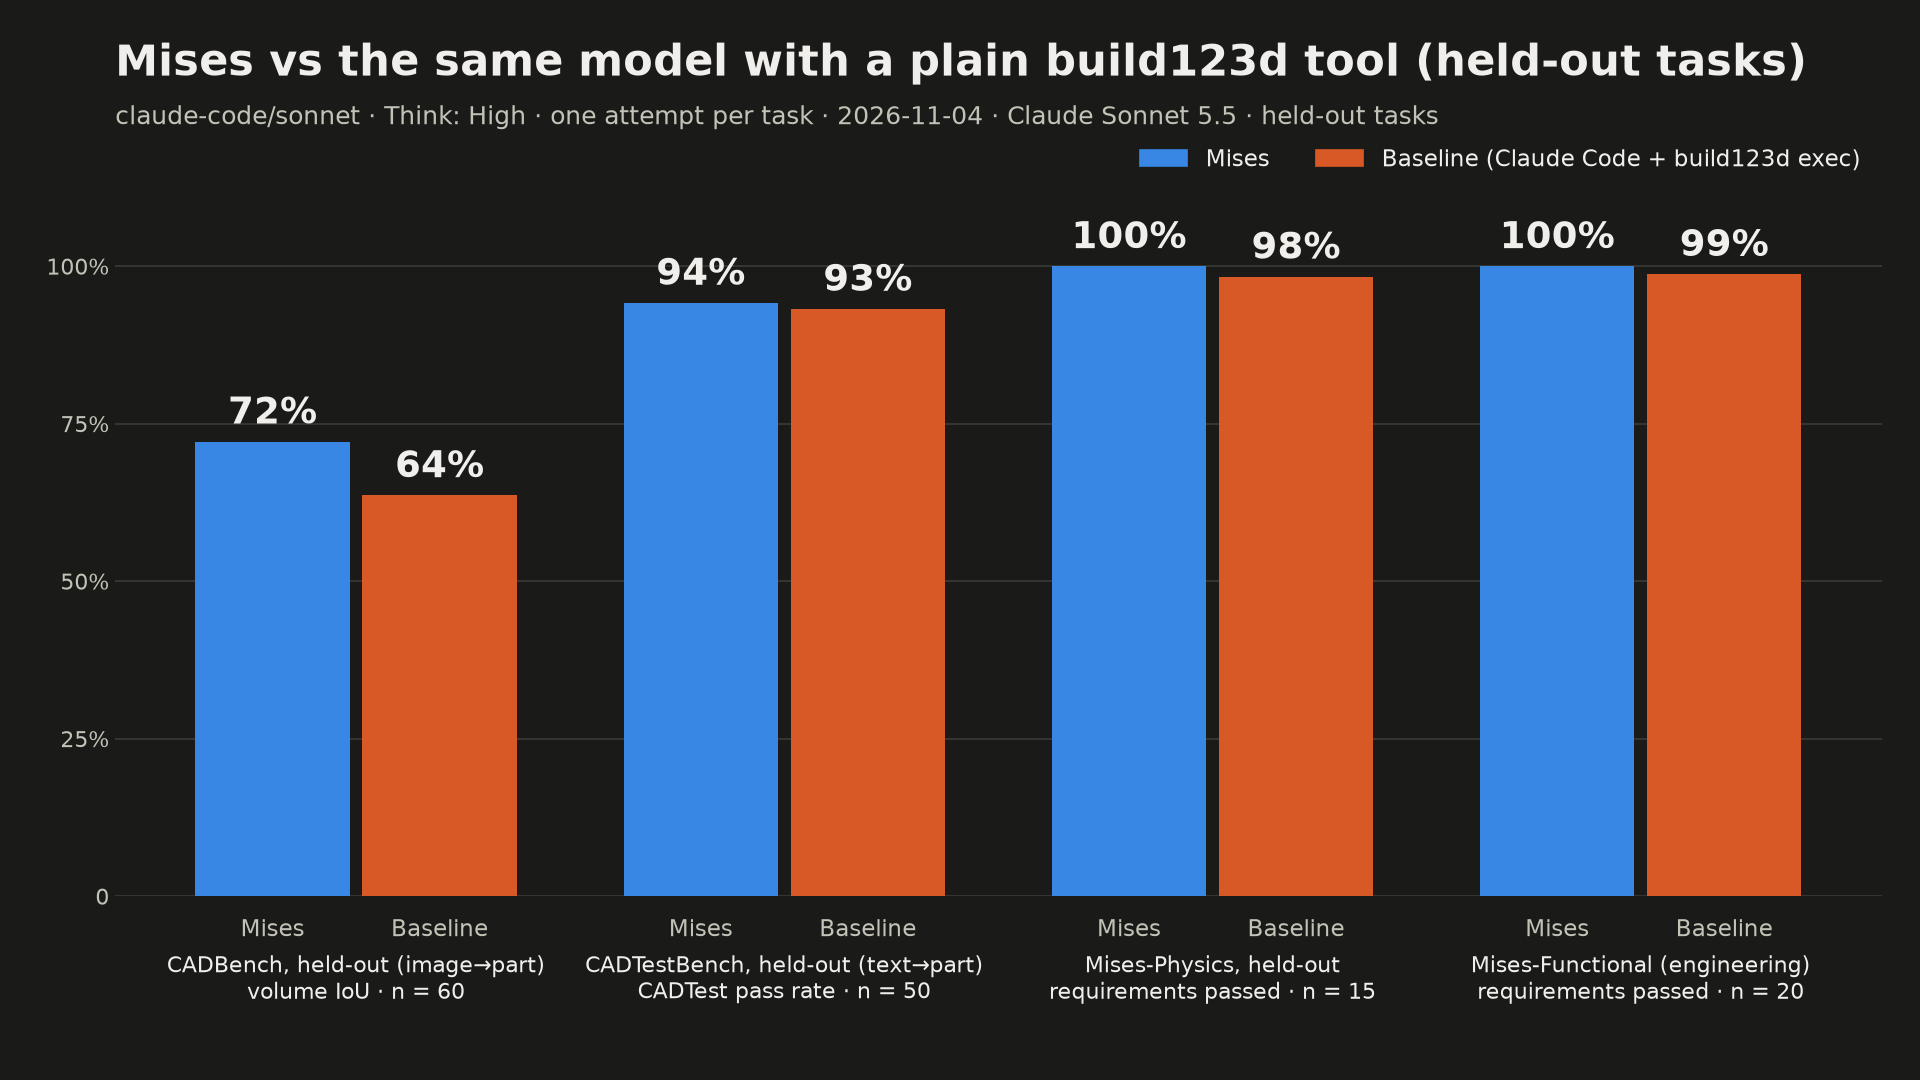
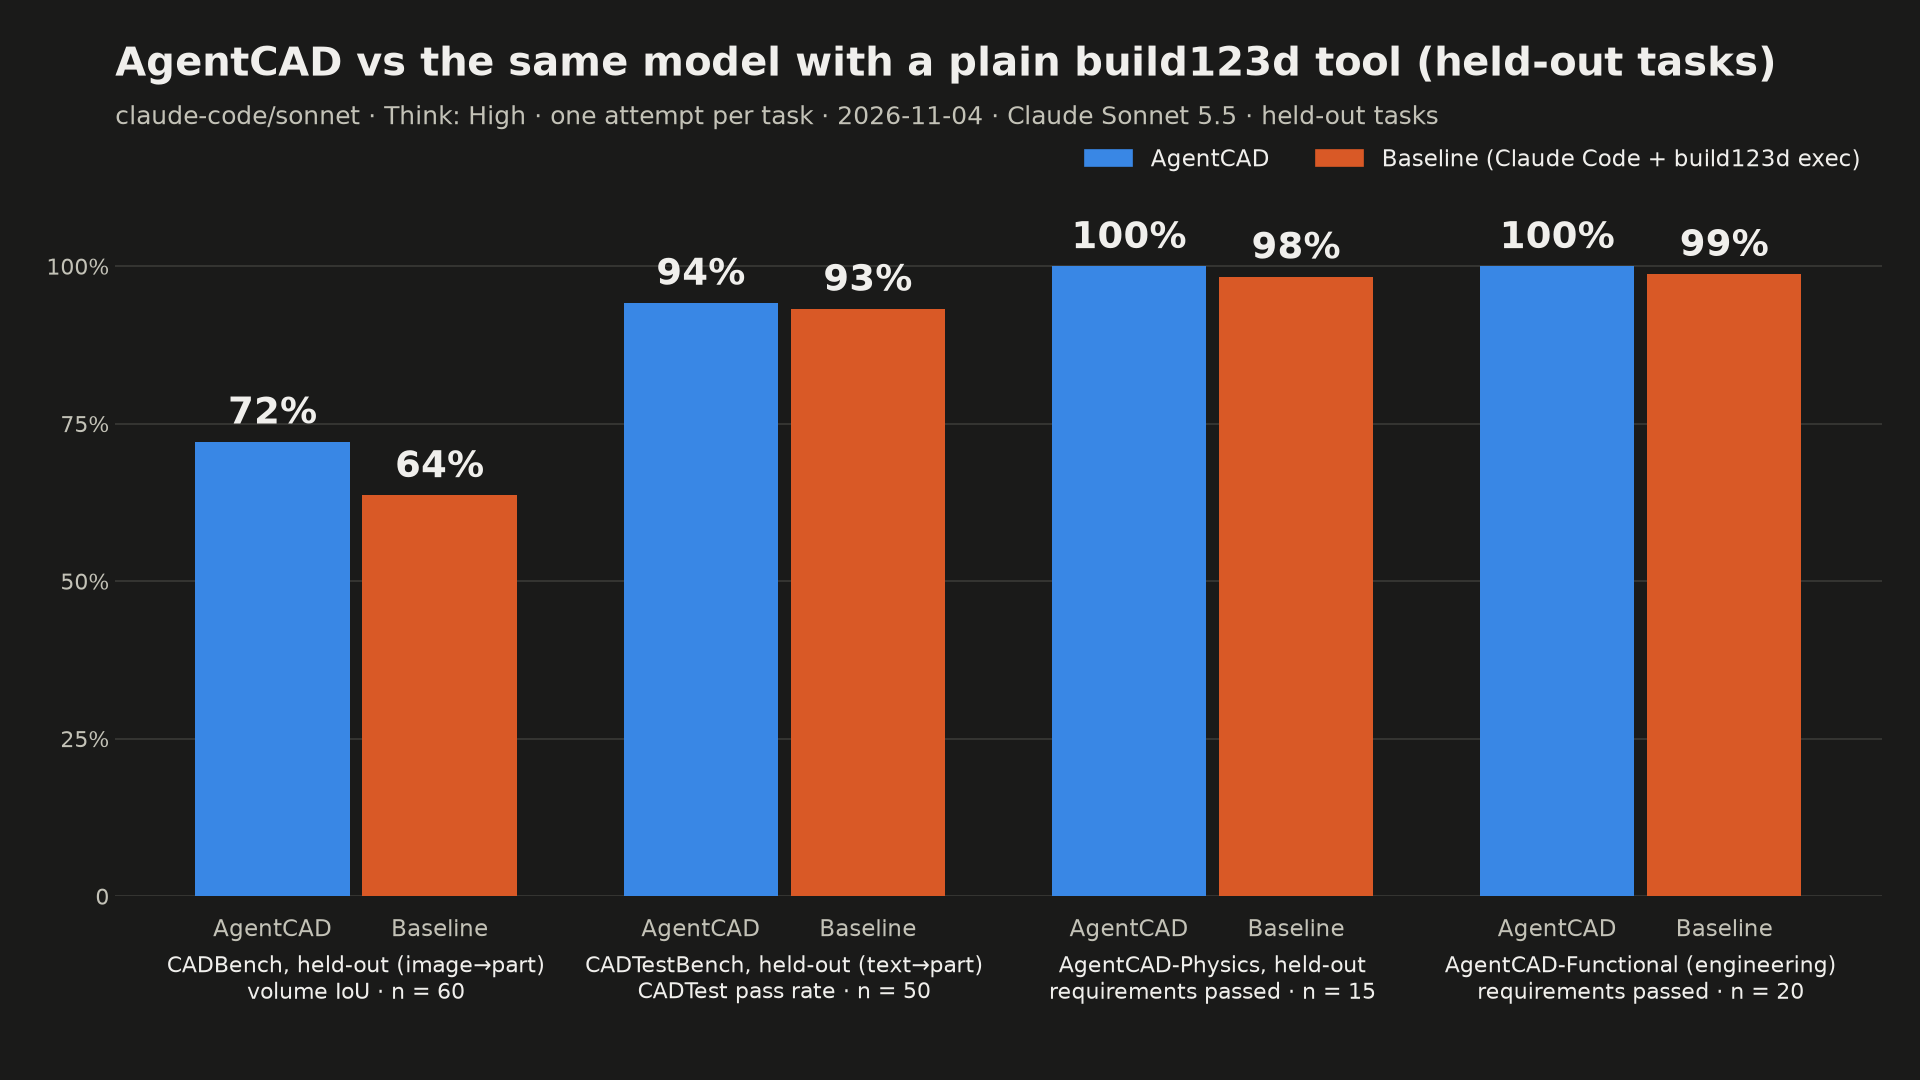
rename: READMEs, benchmark report and suite names say AgentCAD
Suites become AgentCAD-Functional / AgentCAD-Physics. The chart is redrawn from the stored summary
with no new runs; the data key and CLI system id `mises` stay.

Claude-Session: https://claude.ai/code/session_01MCwbmMC4uxgXN6UvsBhXQX

diff --git a/mockups/terminal-core-loop.html b/mockups/terminal-core-loop.html
@@ -2,7 +2,7 @@
 <html>
 <head>
 <meta charset="utf-8">
-<title>Mises · terminal edition</title>
+<title>AgentCAD · terminal edition</title>
 <link href="https://fonts.googleapis.com/css2?family=IBM+Plex+Mono:wght@400;500;600&family=IBM+Plex+Sans+Condensed:wght@400;500;600&display=swap" rel="stylesheet">
 <style>
 :root{
@@ -156,7 +156,7 @@ h1{font:600 20px "IBM Plex Sans Condensed",sans-serif;letter-spacing:.04em;margi
 </style>
 </head>
 <body>
-<h1>Mises · core loop · terminal edition</h1>
+<h1>AgentCAD · core loop · terminal edition</h1>
 <p class="sub">Same layout, with Bloomberg Terminal ideas layered in: a <b>command line</b> with short function codes, <b>numbered panels</b> you jump to with 1–9, dense right-aligned tables with <b>change columns</b> (previous value, delta, 7-day filament price), a version history with a safety-factor trend line, a scrolling <b>event feed</b>, and a <b>function-key strip</b>.</p>
 
 <svg width="0" height="0" style="position:absolute">

diff --git a/core/evals/bench/report.py b/core/evals/bench/report.py
@@ -17,10 +17,10 @@ from .common import read_json, write_json
 
 SYSTEMS = ("mises", "baseline")
 SUITE_TITLES = {"cadbench": "CADBench (image→part)", "cadtestbench": "CADTestBench (text→part)",
-                "functional": "Mises-Functional (engineering)",
+                "functional": "AgentCAD-Functional (engineering)",
                 "cadbench_test": "CADBench, held-out (image→part)",
                 "cadtestbench_test": "CADTestBench, held-out (text→part)",
-                "physics_dev": "Mises-Physics, dev", "physics_test": "Mises-Physics, held-out"}
+                "physics_dev": "AgentCAD-Physics, dev", "physics_test": "AgentCAD-Physics, held-out"}
 METRIC = {"cadbench": "volume IoU", "cadtestbench": "CADTest pass rate",
           "functional": "requirements passed", "physics": "requirements passed"}
 
@@ -167,7 +167,7 @@ def chart(summary: dict, path: Path, model: str, date: str, label: str = "",
             ax.bar(x, v, w, color=col[sysname], zorder=3, linewidth=0)
             ax.text(x, v + 0.015, f"{100 * v:.0f}%", ha="center", va="bottom", color=ink,
                     fontsize=22, fontweight="bold")
-            ax.text(x, -0.035, "Mises" if sysname == "mises" else "Baseline", ha="center",
+            ax.text(x, -0.035, "AgentCAD" if sysname == "mises" else "Baseline", ha="center",
                     va="top", color=muted, fontsize=14)
     ax.set_xticks(range(len(suites)))
     ax.set_xticklabels([f"{SUITE_TITLES[s]}\n{METRIC[family(s)]} · n = {summary[s]['n']}"
@@ -180,12 +180,12 @@ def chart(summary: dict, path: Path, model: str, date: str, label: str = "",
     ax.grid(axis="y", color=grid, linewidth=1, zorder=0)
     for sp in ax.spines.values():
         sp.set_visible(False)
-    fig.text(0.06, 0.93, title or "Mises vs the same model with a plain build123d tool", color=ink,
-             fontsize=26, fontweight="bold")
+    fig.text(0.06, 0.93, title or "AgentCAD vs the same model with a plain build123d tool", color=ink,
+             fontsize=24, fontweight="bold")
     fig.text(0.06, 0.885, f"{model} · Think: High · one attempt per task · {date}"
              + (f" · {label}" if label else ""), color=muted, fontsize=15)
     handles = [plt.Rectangle((0, 0), 1, 1, color=col[s]) for s in SYSTEMS]
-    ax.legend(handles, ["Mises", "Baseline (Claude Code + build123d exec)"], loc="upper right",
+    ax.legend(handles, ["AgentCAD", "Baseline (Claude Code + build123d exec)"], loc="upper right",
               frameon=False, labelcolor=ink, fontsize=14, bbox_to_anchor=(1.0, 1.13), ncol=2)
     fig.subplots_adjust(left=0.06, right=0.98, top=0.8, bottom=0.17)
     fig.savefig(path, facecolor=bg)
@@ -204,7 +204,7 @@ HELD_OUT = ["cadbench_test", "cadtestbench_test", "physics_test", "functional"]
 
 
 def tables(summary: dict) -> list[str]:
-    lines = ["| Suite | n | Metric | Mises | Baseline | Mises − baseline (95% CI) | Mises better / worse / tie |",
+    lines = ["| Suite | n | Metric | AgentCAD | Baseline | AgentCAD − baseline (95% CI) | AgentCAD better / worse / tie |",
              "|---|---|---|---|---|---|---|"]
     for s, sm in summary.items():
         p = sm["paired"]
@@ -215,7 +215,7 @@ def tables(summary: dict) -> list[str]:
                      f"{p['mises_better']} / {p['baseline_better']} / {p['ties']} |")
     for s, sm in summary.items():
         fam = family(s)
-        lines += ["", f"### {SUITE_TITLES[s]} (n = {sm['n']})", "", "| | Mises | Baseline |",
+        lines += ["", f"### {SUITE_TITLES[s]} (n = {sm['n']})", "", "| | AgentCAD | Baseline |",
                   "|---|---|---|"]
         keys = [("valid_rate", "valid output", _pct)]
         if fam == "cadbench":
@@ -238,7 +238,7 @@ def tables(summary: dict) -> list[str]:
                     lines.append(f"| {sub.split('_')[1]}: {k} | {_pct(sm['mises'][sub].get(k))} "
                                  f"| {_pct(sm['baseline'][sub].get(k))} |")
         if "metrics" in sm["mises"]:
-            lines += ["", "| task | Mises | Baseline |", "|---|---|---|"]
+            lines += ["", "| task | AgentCAD | Baseline |", "|---|---|---|"]
             for tid in sm["mises"]["metrics"]:
                 fm = lambda d: ", ".join(f"{k} {v}" for k, v in (d or {}).items())  # noqa: E731
                 lines.append(f"| {tid} | {fm(sm['mises']['metrics'][tid])} | "
@@ -269,9 +269,9 @@ def build_report(runs: Path, out: Path, label: str = "", history: dict | None = 
     write_json(out / "benchmarks.json", doc)
     held = [s for s in HELD_OUT if s in summary]
     chart(summary, out / "benchmarks.png", model or "?", date, label, only=held or None,
-          title="Mises vs the same model with a plain build123d tool (held-out tasks)" if held else None)
-    lines = [f"# Mises CAD benchmarks ({date})", "", preamble] if preamble else \
-        [f"# Mises CAD benchmarks ({date})", ""]
+          title="AgentCAD vs the same model with a plain build123d tool (held-out tasks)" if held else None)
+    lines = [f"# AgentCAD CAD benchmarks ({date})", "", preamble] if preamble else \
+        [f"# AgentCAD CAD benchmarks ({date})", ""]
     lines += [f"Model: `{model}` for both systems, Think: High, one build per task. Invalid or "
               "missing outputs score 0. Only tasks run by both systems are compared (paired).", ""]
     lines += tables(summary)

diff --git a/core/evals/bench/final_report.py b/core/evals/bench/final_report.py
@@ -13,25 +13,25 @@ from pathlib import Path
 from .report import _pct, build_report, collect, summarise
 
 PREAMBLE = """\
-**Headline (held-out TEST, never looked at while tuning Mises):** Mises leads on image→part (CADBench), \
+**Headline (held-out TEST, never looked at while tuning AgentCAD):** AgentCAD leads on image→part (CADBench), \
 is level-to-slightly-ahead on text→part (CADTestBench) and on the physics-graded suite, at 4–8× the cost \
 per task and 1.5–2.5× the agent time. Baseline = the same Claude Code model (Sonnet 5.5, Think High) with \
 a plain build123d prompt and one sandboxed exec tool; one attempt per task for both.
 
-How to read: *n* tasks, paired; *Mises − baseline* is the mean per-task difference with a 95% paired \
-bootstrap CI; win/loss counts are per task. Splits: DEV sets were used to find and test Mises fixes; \
+How to read: *n* tasks, paired; *AgentCAD − baseline* is the mean per-task difference with a 95% paired \
+bootstrap CI; win/loss counts are per task. Splits: DEV sets were used to find and test AgentCAD fixes; \
 TEST sets were drawn after (next items of the same seed-pinned rankings, disjoint from DEV) and run once \
-with the final Mises. Mises-Physics (20 tasks) was written before any tuning, split 5 DEV / 15 TEST. \
-Mises-Functional (20) was never tuned on; its Mises runs are from the first pass (pre-fix Mises).
+with the final AgentCAD. AgentCAD-Physics (20 tasks) was written before any tuning, split 5 DEV / 15 TEST. \
+AgentCAD-Functional (20) was never tuned on; its AgentCAD runs are from the first pass (pre-fix AgentCAD).
 """
 
 HISTORY_NOTES = {
     "round0_first_pass": "main @ 4bf7af07 + harness; all DEV suites, both systems",
     "round1_after_2_fixes": "chat-attached images checkable by reference_photo_check; multi-solid "
-                            "warning. Mises re-run on all 60 CADBench + the 19 CADTestBench it failed",
+                            "warning. AgentCAD re-run on all 60 CADBench + the 19 CADTestBench it failed",
     "round2_dev": "units rule + unit-slip guard, schema titles dropped, zero-solid warning, "
                   "photo mismatch hints (reverted: no gain), designer verify-every-requirement "
-                  "(reverted: no gain). Mises re-run on DEV CADBench 60 + CADTestBench 50",
+                  "(reverted: no gain). AgentCAD re-run on DEV CADBench 60 + CADTestBench 50",
 }
 
 
@@ -56,7 +56,7 @@ def main(root: Path, out: Path) -> None:
     doc = build_report(root / "report", out, label="Claude Sonnet 5.5 · held-out tasks",
                        history=hist, preamble=PREAMBLE)
     lines = (out / "benchmarks.md").read_text().splitlines()
-    lines += ["", "## DEV iteration history (Mises headline / baseline headline, paired wins-losses)",
+    lines += ["", "## DEV iteration history (AgentCAD headline / baseline headline, paired wins-losses)",
               "", "| Round | What changed | CADBench IoU | CADTestBench pass | CADTestBench all-pass wins | Physics/Functional |",
               "|---|---|---|---|---|---|"]
     for key in ("round0_first_pass", "round1_after_2_fixes", "round2_dev"):
@@ -65,7 +65,7 @@ def main(root: Path, out: Path) -> None:
         other = h.get("functional") or h.get("physics_dev")
         f = lambda x: (f"{_pct(x['mises'])} / {_pct(x['baseline'])} "  # noqa: E731
                        f"({x['paired']['mises_better']}-{x['paired']['baseline_better']})") if x else "–"
-        strict = (f"{ct['paired'].get('strict_mises_only', '–')} Mises-only / "
+        strict = (f"{ct['paired'].get('strict_mises_only', '–')} AgentCAD-only / "
                   f"{ct['paired'].get('strict_baseline_only', '–')} baseline-only") if ct else "–"
         lines.append(f"| {key} | {HISTORY_NOTES[key]} | {f(cb)} | {f(ct)} | {strict} | {f(other)} |")
     (out / "benchmarks.md").write_text("\n".join(lines) + "\n")

diff --git a/core/evals/bench/cli.py b/core/evals/bench/cli.py
@@ -1,4 +1,4 @@
-"""Mises CAD benchmark harness (not shipped code; spends real model time).
+"""AgentCAD CAD benchmark harness (not shipped code; spends real model time).
 
     cd core
     export MISES_BENCH_CACHE=/some/tmp/dir          # datasets + homes, never the repo
@@ -10,7 +10,7 @@
         --out ../results
 
 Suites: cadbench (60 image->part, CADBench M/F/B), cadtestbench (50 text->part with
-CADTests), functional (20 Mises-Functional tasks). Systems: mises (a real Mises core over HTTP,
+CADTests), functional (20 AgentCAD-Functional tasks). Systems: mises (a real AgentCAD core over HTTP,
 default model, Think=High) and baseline (same Claude Code model, plain build123d prompt and
 one sandboxed exec tool). Runs are resumable: a task whose run.json exists is skipped.
 """
@@ -176,7 +176,7 @@ def cmd_show(a) -> int:
 
 
 def cmd_reexport(a) -> int:
-    """Re-run only the export of finished Mises builds from their kept homes (no model calls):
+    """Re-run only the export of finished AgentCAD builds from their kept homes (no model calls):
     for harness export fixes. Edit tasks' stage_0 exports cannot be redone this way."""
     from .mises_runner import Core, export_build
     for suite in (a.suite.split(",") if a.suite else ALL_SUITES):

diff --git a/core/evals/bench/functional/fea.py b/core/evals/bench/functional/fea.py
@@ -1,4 +1,4 @@
-"""A small independent CalculiX linear-static check for the Mises-Functional structural tasks.
+"""A small independent CalculiX linear-static check for the AgentCAD-Functional structural tasks.
 
 gmsh (OCC) meshes the exported STEP into 10-node tets; we write the CalculiX deck ourselves
 (C3D10, linear elastic, fixed and loaded nodes picked by coordinates), run `ccx`, and read the
@@ -8,7 +8,7 @@ re-entrant-corner singularity from deciding a pass; the checkers use p99.5 again
 report both). Loads are split equally over the selected nodes (a total force, not a consistent
 pressure). Units: mm, N, MPa.
 
-Kept separate from Mises' own simulation code on purpose: the checker must not share code
+Kept separate from AgentCAD's own simulation code on purpose: the checker must not share code
 with the system under test.
 """
 from __future__ import annotations

diff --git a/core/evals/bench/physics/tasks.py b/core/evals/bench/physics/tasks.py
@@ -1,9 +1,9 @@
-"""Mises-Physics: 20 tasks whose requirements can only be verified with physics, graded
+"""AgentCAD-Physics: 20 tasks whose requirements can only be verified with physics, graded
 independently on the delivered geometry (our own CalculiX decks, mass properties, tipping,
 Barrowman + 1-D flight), never on either system's self-report.
 
 The DEV / TEST split is fixed here, before any tuning: 5 DEV tasks (one per grader type) may be
-looked at while improving Mises; the 15 TEST tasks are held out and only run for the final
+looked at while improving AgentCAD; the 15 TEST tasks are held out and only run for the final
 numbers. Score = fraction of requirements passed; strict = all passed. Each task also reports
 its key physical numbers (mass, margin, frequency ...) in `metrics`.
 """

diff --git a/core/evals/bench/mises_runner.py b/core/evals/bench/mises_runner.py
@@ -1,9 +1,9 @@
-"""Run one benchmark task through a real Mises core, over its HTTP API.
+"""Run one benchmark task through a real AgentCAD core, over its HTTP API.
 
 Each task gets a fresh MISES_HOME (never the user's real one) and its own `mises serve`
 process, so builds cannot learn from each other. The prompt (and its images) go to
 POST /projects/{id}/chat exactly as the app's composer sends them, with the default model
-(Mises' own pick: the signed-in Claude Code) and Think=High. We then poll the build's run
+(AgentCAD's own pick: the signed-in Claude Code) and Think=High. We then poll the build's run
 tree until every run is idle, answering what the unattended app would have to:
 
 - approvals: a reversible tool's one-off approval is approved (the build's own reversible

diff --git a/core/evals/bench/baseline_runner.py b/core/evals/bench/baseline_runner.py
@@ -1,8 +1,8 @@
 """BASELINE: the same Claude Code model, a plain build123d prompt and one sandboxed exec tool.
 
-No Mises harness: no Mises tools, agents, rules, renders, critique, FEA or catalog. The model
+No AgentCAD harness: no AgentCAD tools, agents, rules, renders, critique, FEA or catalog. The model
 gets the task text (and image), a short build123d brief, and `run_build123d` (see
-baseline_exec_mcp.py). Same model alias and Think level as the Mises run, the same wall-time
+baseline_exec_mcp.py). Same model alias and Think level as the AgentCAD run, the same wall-time
 cap, and up to MAX_TURNS turns. The last successful execution is the answer, exported to
 <out>/result.step / result.stl (and components/ for multi-part answers).
 """

diff --git a/core/evals/bench/baseline_exec_mcp.py b/core/evals/bench/baseline_exec_mcp.py
@@ -3,7 +3,7 @@
     python -I baseline_exec_mcp.py --jobs DIR
 
 Tool `run_build123d(code)`: the code runs in a fresh process under the same macOS sandbox
-Mises gives its own CAD worker (no network, no new processes, writes only into the job dir),
+AgentCAD gives its own CAD worker (no network, no new processes, writes only into the job dir),
 with a 120 s timeout. The code must assign `result`: a build123d shape (one part) or a dict
 {name: shape} (several parts, placed in world coordinates). The tool answers with the error
 (traceback tail) or a summary: solids, volume, bounding box, OCCT validity. Every successful

diff --git a/core/evals/bench/physics/mech.py b/core/evals/bench/physics/mech.py
@@ -1,5 +1,5 @@
-"""Independent physics for the Mises-Physics graders: mass properties, tipping, a Barrowman
-rocket model with a 1-D flight simulation. Nothing here is shared with Mises' own code."""
+"""Independent physics for the AgentCAD-Physics graders: mass properties, tipping, a Barrowman
+rocket model with a 1-D flight simulation. Nothing here is shared with AgentCAD's own code."""
 from __future__ import annotations
 
 import math

diff --git a/core/evals/bench/cadtest_adapter.py b/core/evals/bench/cadtest_adapter.py
@@ -12,7 +12,7 @@ snippet, any exception = fail). Scores follow the official definitions:
 - pr (per sample): every cadtest passed.
 A missing or unreadable STEP fails every cadtest (an invalid sample).
 
-Runs in its own process with its own CadQuery install, never inside Mises' environment.
+Runs in its own process with its own CadQuery install, never inside AgentCAD's environment.
 """
 import json
 import signal

diff --git a/core/evals/bench/functional/reference.py b/core/evals/bench/functional/reference.py
@@ -1,4 +1,4 @@
-"""Hand-written reference answers for the Mises-Functional checkers (checker self-tests only;
+"""Hand-written reference answers for the AgentCAD-Functional checkers (checker self-tests only;
 never shown to either system). Each returns {name: shape} placed in world coordinates, and
 edit tasks return (before, after)."""
 from __future__ import annotations
